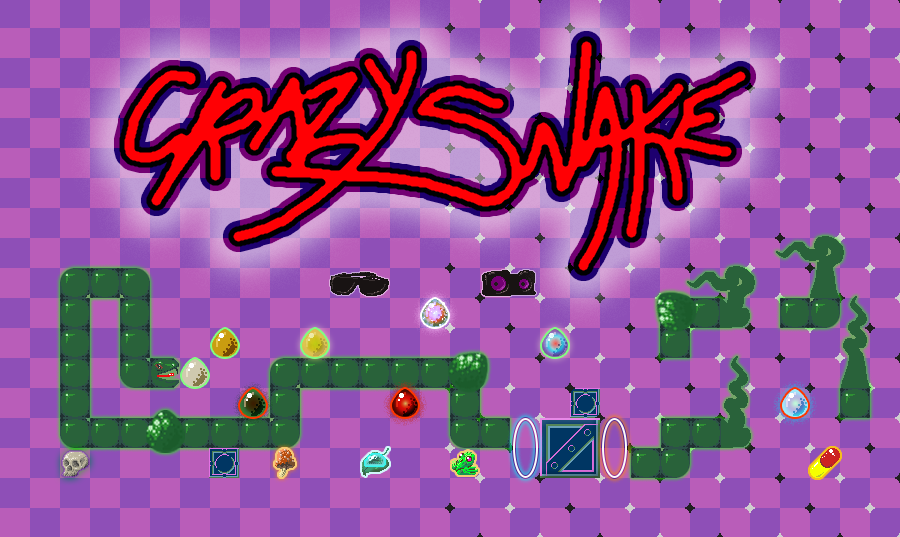
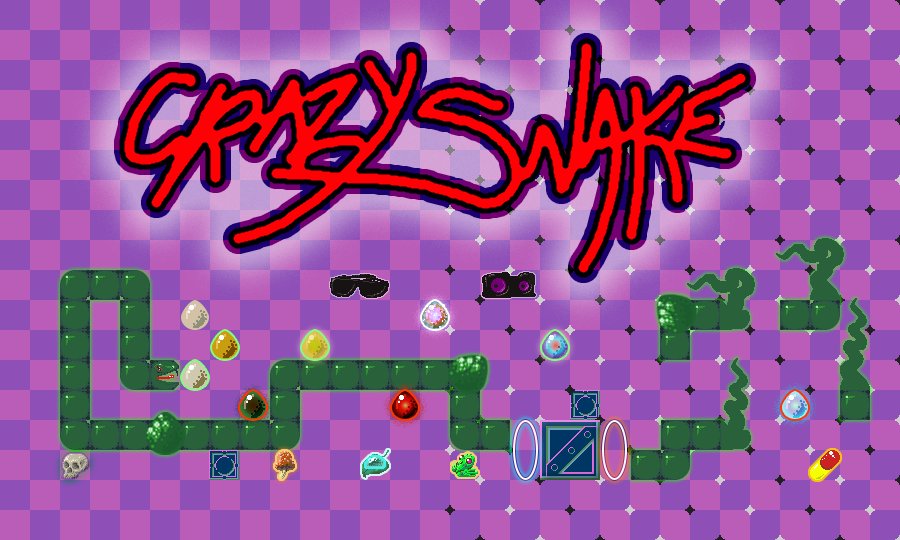
Switch Tail Animation Approach
Now using the movement array in BendTail(), which should ultimately require less checks to determine which frame to show than using the coordinate array.

Banner updated to reflect new "straight" tail base sprite.

Timer: 0.15s --> 0.5s for debugging frames.

diff --git a/scripts/main.cs b/scripts/main.cs
@@ -87,7 +87,7 @@ public partial class Main : Node
 	public override void _Ready()
 	{
 		// The WaitTime is the amount of seconds between each snake movement. .1-.2 is a good regular gameplay speed; .75 is a good debug speed for animations etc.
-		GetNode<Timer>("MoveTimer").WaitTime = 0.15;
+		GetNode<Timer>("MoveTimer").WaitTime = 0.5;
 		
 		_wallNode = GetNode<Node2D>("ItemManager/Wall");
 		_freshEggNode = GetNode<Node2D>("ItemManager/FreshEgg");
@@ -289,7 +289,7 @@ public partial class Main : Node
 			snakeSegment.Offset = new Vector2(-15, 15);
 			snakeSegment.Rotation = 4.7183f;
 		}
-		if (_snake.Count > 3)
+		if (_snake.Count >= 3)
 		{
 			snakeSegment.Visible = false;
 		}
@@ -343,7 +343,7 @@ public partial class Main : Node
 		else if (i == _snake.Count - 2 && _snake.Count > 5 || (i > 3 && _snake.Count < 5) || (i == 4 && _snake.Count == 5))
 		{
 			currentSegment = (AnimatedSprite2D)_snake[i];
-			currentSegment.Frame = 7;
+			currentSegment.Frame = 8;
 			var currentDirection = _snakeMoveData[i];
 			foreach (var action in _headDirection)
 			{
@@ -359,7 +359,7 @@ public partial class Main : Node
 		else if (i == _snake.Count - 1 && _snake.Count > 5)
 		{
 			currentSegment = (AnimatedSprite2D)_snake[i];
-			currentSegment.Frame = 9;
+			currentSegment.Frame = 10;
 			var currentDirection = _snakeMoveData[i];
 			foreach (var action in _headDirection)
 			{
@@ -380,49 +380,37 @@ public partial class Main : Node
 		AnimatedSprite2D tailBase = (AnimatedSprite2D)_snake[^3];
 		AnimatedSprite2D tailShaft = (AnimatedSprite2D)_snake[^2];
 		AnimatedSprite2D tailTip = (AnimatedSprite2D)_snake[^1];
-		Vector2 tailBasePosition = _snake[^3].Position;
-		Vector2 tailShaftPosition = _snake[^2].Position;
-		Vector2 tailTipPosition = _snake[^1].Position;
-
-		// Check if the tail is in a straight line
-		if ((tailBasePosition.X == tailShaftPosition.X && tailShaftPosition.X == tailTipPosition.X) ||
-			(tailBasePosition.Y == tailShaftPosition.Y && tailShaftPosition.Y == tailBasePosition.Y))
+		string tailBaseMovement = _snakeMoveData[^3];
+		string tailShaftMovement = _snakeMoveData[^2];
+		string tailTipMovement = _snakeMoveData[^1];
+		//If all segments are going in a straight line
+		if (tailBaseMovement == tailShaftMovement && tailShaftMovement == tailTipMovement)
 		{
 			tailBase.Frame = 6;
-			tailShaft.Frame = 7;
-			tailTip.Frame = 9;
+			tailShaft.Frame = 8;
+			tailTip.Frame = 10;
+			
 		}
-		// Determine relative positions
-		bool isBaseAboveTip = tailBasePosition.Y < tailTipPosition.Y;
-		bool isBaseBelowTip = tailBasePosition.Y > tailTipPosition.Y;
-		bool isBaseRightOfTip = tailBasePosition.X > tailTipPosition.X;
-		bool isBaseLeftOfTip = tailBasePosition.X < tailTipPosition.X;
-
-		if (isBaseAboveTip)
+		//If the base segment is the only turning segment
+		if (tailBaseMovement != tailShaftMovement && tailShaftMovement == tailTipMovement)
 		{
-			if (isBaseRightOfTip)
-			{
-				tailShaft.Frame = 8;
-				tailTip.Frame = 10;
-			}
-			else if (isBaseLeftOfTip)
-			{
-				tailShaft.Frame = 8;
-				tailTip.Frame = 10;
-			}
+			tailBase.Frame = 7;
+			tailShaft.Frame = 8;
+			tailTip.Frame = 10;
 		}
-		else if (isBaseBelowTip)
+		//if the shaft is the only turning segment
+		if (tailBaseMovement == tailShaftMovement && tailShaftMovement != tailTipMovement)
 		{
-			if (isBaseRightOfTip)
-			{
-				tailShaft.Frame = 8;
-				tailTip.Frame = 10;
-			}
-			else if (isBaseLeftOfTip)
-			{
-				tailShaft.Frame = 8;
-				tailTip.Frame = 10;
-			}
+			tailBase.Frame = 6;
+			tailShaft.Frame = 9;
+			tailTip.Frame = 10;
+		}
+		//if both segments are turning
+		if (tailBaseMovement != tailShaftMovement && tailShaftMovement != tailTipMovement)
+		{
+			tailBase.Frame = 7;
+			tailShaft.Frame = 9;
+			tailTip.Frame = 10;
 		}
 	}
 	
